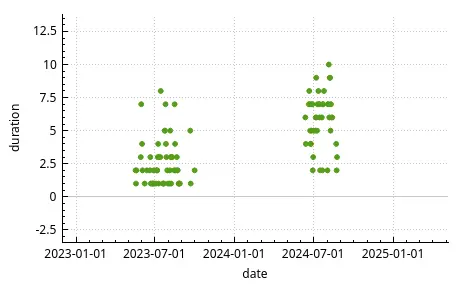
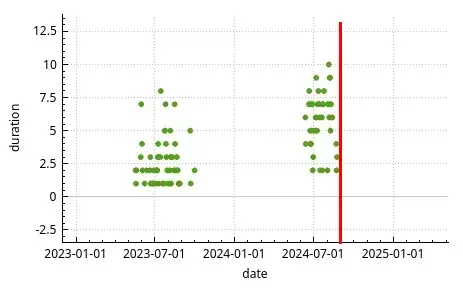
docs: add screenshot

diff --git a/README.md b/README.md
@@ -2,6 +2,8 @@
 
 此自由開源軟件旨在從新聞發布網站自動收集「黃色工作暑熱警告」的信息，包括日期、生效時間和結束時間。透過自動化過程，軟件可協助用戶及時了解工作環境中的熱壓力風險，提高安全性。
 
+![Scatter plot showing the daily duration of amber heat stress warnings over time. The x-axis represents dates from January 2023 to August 2024, and the y-axis represents duration in hours. Two clusters of green dots are visible: one around mid-2023 and another around mid-2024, indicating periods with more frequent warnings.](./screenshot.webp 'Daily Duration of Amber Heat Stress Warnings with Current Date Marked (Jan 2023 - Aug 2025)')
+
 ## 功能特色
 
 - 自動抓取和更新勞工處的黃色工作暑熱警告
